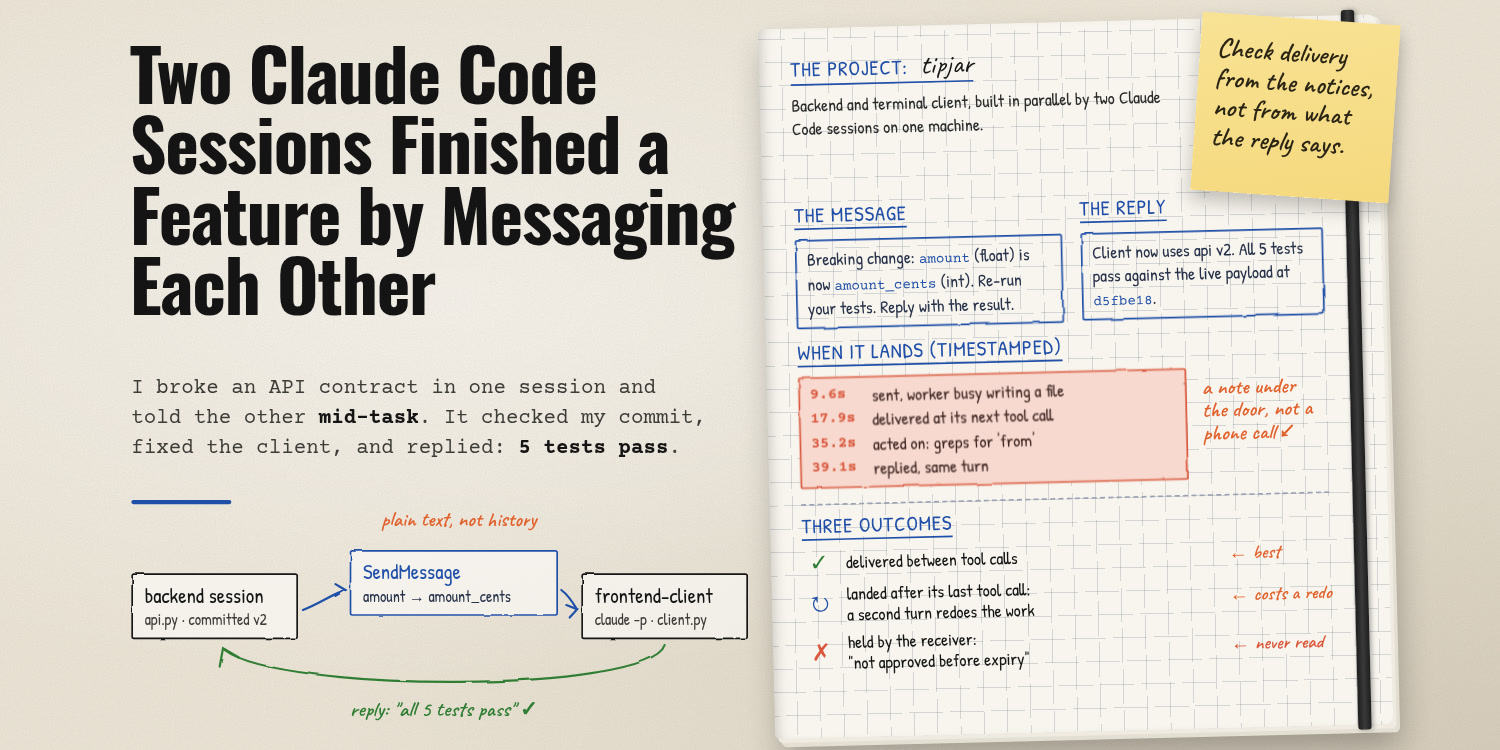
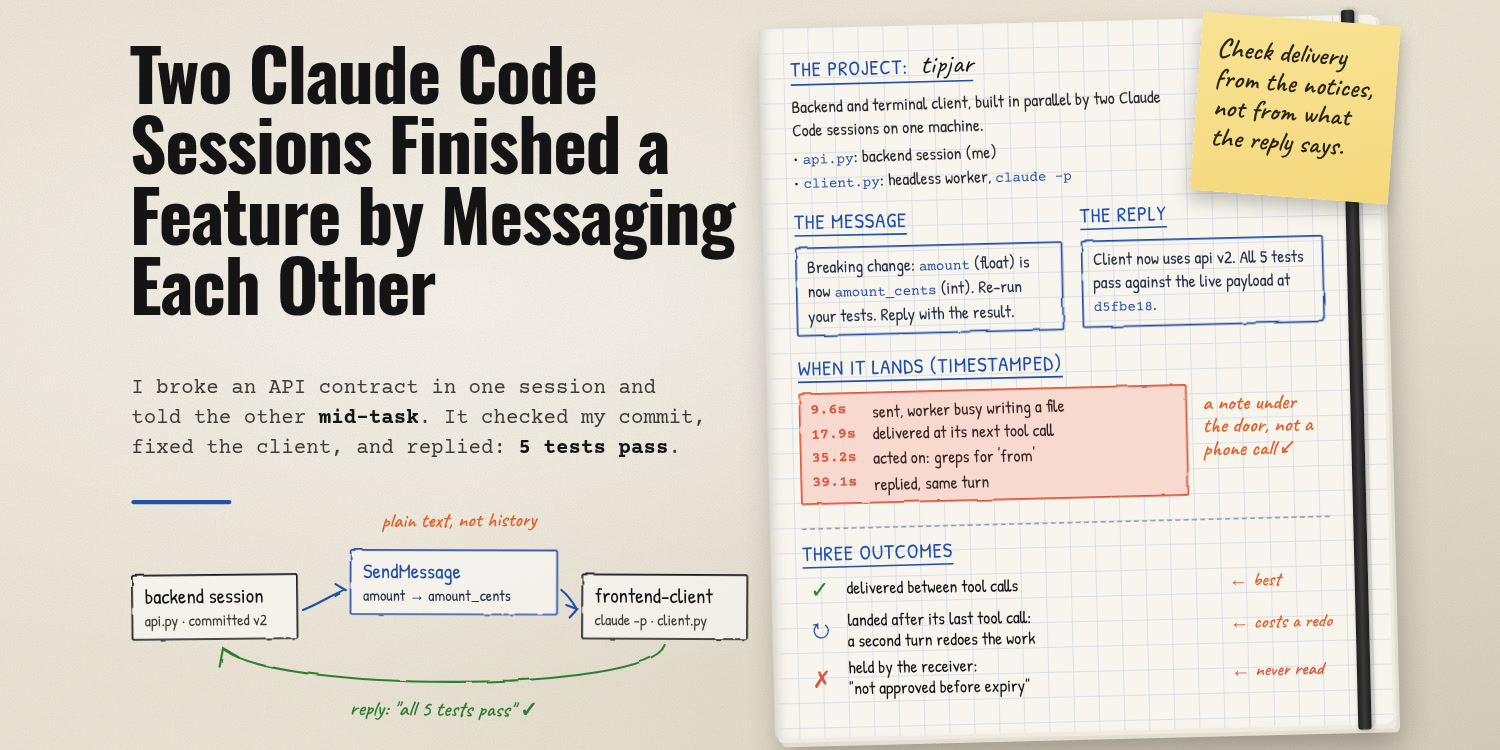
feat: claude-code cover v2 — SVG grid, filled project section, seeded hand jitter
Claude-Session: https://claude.ai/code/session_011vk3NQgjzhLnswYxwbd3wb

diff --git a/markdown/claude-code/assets/022/cover.html b/markdown/claude-code/assets/022/cover.html
@@ -1,5 +1,24 @@
 <!doctype html>
 <meta charset="utf-8">
+<!--
+  Cover template for the Claude Code series: a hand-drawn notebook page.
+  Rules: rules/claude-code/06-cover-contract.md
+
+  Copy to assets/NNN/cover.html (the font paths assume that depth), then edit the
+  four slots marked EDIT. The example content is article 022; replace all of it.
+  Everything outside the slots (paper, fonts, palette, notebook, sticky) is fixed.
+
+  Vocabulary inside the notebook:
+    .h               blue handwritten section heading (+ .mono for a name in Caveat)
+    .txt             body text in Patrick Hand
+    .box.sketch      blue wobbly box          .box.sketch.trap  red-tinted box (max one)
+    .code            inline monospace in blue
+    .tl              two-column timeline / table (bold mono left column)
+    .out             icon / text / orange tag rows (outcomes, verdicts)
+    .note            orange Caveat annotation, absolutely positioned
+  Also set the jitter seed at the bottom to the article number.
+  Render: ./render.sh cover NNN   (1500x750 JPEG), then read the image back.
+-->
 <style>
   @font-face { font-family: Oswald; src: url(../../fonts/Oswald.ttf); font-weight: 200 700; }
   @font-face { font-family: Caveat; src: url(../../fonts/Caveat.ttf); font-weight: 400 700; }
@@ -60,11 +79,7 @@
                   border-radius: 6px; }
   .book .page {
     position: absolute; inset: 0; border-radius: 6px 10px 10px 6px; overflow: hidden;
-    background:
-      repeating-linear-gradient(0deg, transparent 0 27px, var(--grid) 27px 28px),
-      repeating-linear-gradient(90deg, transparent 0 27px, var(--grid) 27px 28px),
-      var(--page);
-    background-blend-mode: multiply;
+    background: var(--page);
     box-shadow: inset 14px 0 18px -14px rgba(0,0,0,.25);
   }
   .book .band { position: absolute; right: 26px; top: -6px; bottom: -6px; width: 16px;
@@ -112,13 +127,13 @@
 <svg class="grain" width="1500" height="750"><rect width="100%" height="100%" filter="url(#paper)"/></svg>
 <div class="zoomer">
 
-<!-- ===== LEFT: title, subtitle ======================================== -->
+<!-- ===== EDIT 1: title (the article title, verbatim) and subtitle (2-3 lines, <b> on the key phrases) -->
 <div class="title">Two Claude Code Sessions Finished a Feature by Messaging Each Other</div>
 <div class="sub">I broke an API contract in one session and told the other <b>mid-task</b>.
   It checked my commit, fixed the client, and replied: <b>5 tests pass</b>.</div>
 <div class="rule"></div>
 
-<!-- ===== LEFT: flow sketch ============================================ -->
+<!-- ===== EDIT 2: bottom-left sketch: 2-3 cards, arrows, 1-2 orange or green notes -->
 <div class="flow">
   <div class="card sketch hand" style="left:0; top:48px; width:200px">backend session<small>api.py · committed v2</small></div>
   <div class="card sketch hand" style="left:262px; top:20px; width:250px; color:var(--blue)">SendMessage<small style="color:#26324a">amount → amount_cents</small></div>
@@ -136,15 +151,18 @@
   </svg>
 </div>
 
-<!-- ===== RIGHT: notebook ============================================== -->
+<!-- ===== EDIT 3: notebook, 3-4 sections; facts and numbers only from the article -->
 <div class="book">
   <div class="stack"></div><div class="stack2"></div>
   <div class="page">
+    <!-- grid as vector lines: CSS gradients turn into broken stair-steps under the tilt -->
+    <svg class="gridlines" width="742" height="852" style="position:absolute; inset:0"><g stroke="#d6dbe2" stroke-width="1"><line x1="30" y1="0" x2="30" y2="852"/><line x1="60" y1="0" x2="60" y2="852"/><line x1="90" y1="0" x2="90" y2="852"/><line x1="120" y1="0" x2="120" y2="852"/><line x1="150" y1="0" x2="150" y2="852"/><line x1="180" y1="0" x2="180" y2="852"/><line x1="210" y1="0" x2="210" y2="852"/><line x1="240" y1="0" x2="240" y2="852"/><line x1="270" y1="0" x2="270" y2="852"/><line x1="300" y1="0" x2="300" y2="852"/><line x1="330" y1="0" x2="330" y2="852"/><line x1="360" y1="0" x2="360" y2="852"/><line x1="390" y1="0" x2="390" y2="852"/><line x1="420" y1="0" x2="420" y2="852"/><line x1="450" y1="0" x2="450" y2="852"/><line x1="480" y1="0" x2="480" y2="852"/><line x1="510" y1="0" x2="510" y2="852"/><line x1="540" y1="0" x2="540" y2="852"/><line x1="570" y1="0" x2="570" y2="852"/><line x1="600" y1="0" x2="600" y2="852"/><line x1="630" y1="0" x2="630" y2="852"/><line x1="660" y1="0" x2="660" y2="852"/><line x1="690" y1="0" x2="690" y2="852"/><line x1="720" y1="0" x2="720" y2="852"/><line x1="0" y1="30" x2="742" y2="30"/><line x1="0" y1="60" x2="742" y2="60"/><line x1="0" y1="90" x2="742" y2="90"/><line x1="0" y1="120" x2="742" y2="120"/><line x1="0" y1="150" x2="742" y2="150"/><line x1="0" y1="180" x2="742" y2="180"/><line x1="0" y1="210" x2="742" y2="210"/><line x1="0" y1="240" x2="742" y2="240"/><line x1="0" y1="270" x2="742" y2="270"/><line x1="0" y1="300" x2="742" y2="300"/><line x1="0" y1="330" x2="742" y2="330"/><line x1="0" y1="360" x2="742" y2="360"/><line x1="0" y1="390" x2="742" y2="390"/><line x1="0" y1="420" x2="742" y2="420"/><line x1="0" y1="450" x2="742" y2="450"/><line x1="0" y1="480" x2="742" y2="480"/><line x1="0" y1="510" x2="742" y2="510"/><line x1="0" y1="540" x2="742" y2="540"/><line x1="0" y1="570" x2="742" y2="570"/><line x1="0" y1="600" x2="742" y2="600"/><line x1="0" y1="630" x2="742" y2="630"/><line x1="0" y1="660" x2="742" y2="660"/><line x1="0" y1="690" x2="742" y2="690"/><line x1="0" y1="720" x2="742" y2="720"/><line x1="0" y1="750" x2="742" y2="750"/><line x1="0" y1="780" x2="742" y2="780"/><line x1="0" y1="810" x2="742" y2="810"/><line x1="0" y1="840" x2="742" y2="840"/></g></svg>
     <div class="content">
       <div class="h">The project: <span class="mono">tipjar</span></div>
       <div class="txt" style="width:470px">Backend and terminal client, built in parallel by two Claude Code sessions on one machine.</div>
+      <div class="txt" style="width:470px; margin-top:6px">• <span class="code">api.py</span>: backend session (me)<br>• <span class="code">client.py</span>: headless worker, <span class="code">claude -p</span></div>
 
-      <div class="row" style="margin-top:78px">
+      <div class="row" style="margin-top:22px">
         <div style="flex:1.1">
           <div class="h">The message</div>
           <div class="box sketch"><div class="txt">Breaking change: <span class="code">amount</span> (float)
@@ -156,7 +174,7 @@
         </div>
       </div>
 
-      <div style="margin-top:16px; display:flex; gap:18px; align-items:flex-start">
+      <div style="margin-top:26px; display:flex; gap:18px; align-items:flex-start">
         <div style="flex:1">
           <div class="h">When it lands (timestamped)</div>
           <div class="box sketch trap"><div class="tl">
@@ -169,7 +187,7 @@
         <div class="note" style="width:150px; font-size:26px; line-height:1.05; margin-top:52px">a note under<br>the door, not a<br>phone call ↙</div>
       </div>
 
-      <div style="border-top: 2px dashed #9aa3b5; margin: 18px 0 12px"></div>
+      <div style="border-top: 2px dashed #9aa3b5; margin: 28px 0 16px"></div>
       <div class="h">Three outcomes</div>
       <div class="out">
         <span class="ico" style="color:var(--green)">✓</span><span>delivered between tool calls</span><span class="tag">← best</span>
@@ -181,5 +199,20 @@
   <div class="band"></div>
 </div>
 
+<!-- ===== EDIT 4: sticky note, the one-line lesson, about 12 words ===== -->
 <div class="sticky">Check delivery from the notices, not from what the reply says.</div>
 </div>
+<script>
+  (function () {
+    let seed = 22;   // EDIT: the article number, so each cover's jitter is stable
+    const rand = () => (seed = (seed * 16807) % 2147483647) / 2147483647;
+    const targets = '.content .h, .content .txt, .tl > span, .tl > b, .out > span, .note, .card, .sticky';
+    document.querySelectorAll(targets).forEach(el => {
+      const deg = (rand() - 0.5) * 1.2;              // within +/-0.6 degrees
+      const dy = (rand() - 0.5) * 2;                 // within +/-1 px
+      const base = getComputedStyle(el).transform;
+      const keep = base && base !== 'none' ? base + ' ' : '';
+      el.style.transform = keep + `translateY(${dy.toFixed(2)}px) rotate(${deg.toFixed(2)}deg)`;
+    });
+  })();
+</script>

diff --git a/markdown/claude-code/cover-template.html b/markdown/claude-code/cover-template.html
@@ -16,6 +16,7 @@
     .tl              two-column timeline / table (bold mono left column)
     .out             icon / text / orange tag rows (outcomes, verdicts)
     .note            orange Caveat annotation, absolutely positioned
+  Also set the jitter seed at the bottom to the article number.
   Render: ./render.sh cover NNN   (1500x750 JPEG), then read the image back.
 -->
 <style>
@@ -78,11 +79,7 @@
                   border-radius: 6px; }
   .book .page {
     position: absolute; inset: 0; border-radius: 6px 10px 10px 6px; overflow: hidden;
-    background:
-      repeating-linear-gradient(0deg, transparent 0 27px, var(--grid) 27px 28px),
-      repeating-linear-gradient(90deg, transparent 0 27px, var(--grid) 27px 28px),
-      var(--page);
-    background-blend-mode: multiply;
+    background: var(--page);
     box-shadow: inset 14px 0 18px -14px rgba(0,0,0,.25);
   }
   .book .band { position: absolute; right: 26px; top: -6px; bottom: -6px; width: 16px;
@@ -158,11 +155,14 @@
 <div class="book">
   <div class="stack"></div><div class="stack2"></div>
   <div class="page">
+    <!-- grid as vector lines: CSS gradients turn into broken stair-steps under the tilt -->
+    <svg class="gridlines" width="742" height="852" style="position:absolute; inset:0"><g stroke="#d6dbe2" stroke-width="1"><line x1="30" y1="0" x2="30" y2="852"/><line x1="60" y1="0" x2="60" y2="852"/><line x1="90" y1="0" x2="90" y2="852"/><line x1="120" y1="0" x2="120" y2="852"/><line x1="150" y1="0" x2="150" y2="852"/><line x1="180" y1="0" x2="180" y2="852"/><line x1="210" y1="0" x2="210" y2="852"/><line x1="240" y1="0" x2="240" y2="852"/><line x1="270" y1="0" x2="270" y2="852"/><line x1="300" y1="0" x2="300" y2="852"/><line x1="330" y1="0" x2="330" y2="852"/><line x1="360" y1="0" x2="360" y2="852"/><line x1="390" y1="0" x2="390" y2="852"/><line x1="420" y1="0" x2="420" y2="852"/><line x1="450" y1="0" x2="450" y2="852"/><line x1="480" y1="0" x2="480" y2="852"/><line x1="510" y1="0" x2="510" y2="852"/><line x1="540" y1="0" x2="540" y2="852"/><line x1="570" y1="0" x2="570" y2="852"/><line x1="600" y1="0" x2="600" y2="852"/><line x1="630" y1="0" x2="630" y2="852"/><line x1="660" y1="0" x2="660" y2="852"/><line x1="690" y1="0" x2="690" y2="852"/><line x1="720" y1="0" x2="720" y2="852"/><line x1="0" y1="30" x2="742" y2="30"/><line x1="0" y1="60" x2="742" y2="60"/><line x1="0" y1="90" x2="742" y2="90"/><line x1="0" y1="120" x2="742" y2="120"/><line x1="0" y1="150" x2="742" y2="150"/><line x1="0" y1="180" x2="742" y2="180"/><line x1="0" y1="210" x2="742" y2="210"/><line x1="0" y1="240" x2="742" y2="240"/><line x1="0" y1="270" x2="742" y2="270"/><line x1="0" y1="300" x2="742" y2="300"/><line x1="0" y1="330" x2="742" y2="330"/><line x1="0" y1="360" x2="742" y2="360"/><line x1="0" y1="390" x2="742" y2="390"/><line x1="0" y1="420" x2="742" y2="420"/><line x1="0" y1="450" x2="742" y2="450"/><line x1="0" y1="480" x2="742" y2="480"/><line x1="0" y1="510" x2="742" y2="510"/><line x1="0" y1="540" x2="742" y2="540"/><line x1="0" y1="570" x2="742" y2="570"/><line x1="0" y1="600" x2="742" y2="600"/><line x1="0" y1="630" x2="742" y2="630"/><line x1="0" y1="660" x2="742" y2="660"/><line x1="0" y1="690" x2="742" y2="690"/><line x1="0" y1="720" x2="742" y2="720"/><line x1="0" y1="750" x2="742" y2="750"/><line x1="0" y1="780" x2="742" y2="780"/><line x1="0" y1="810" x2="742" y2="810"/><line x1="0" y1="840" x2="742" y2="840"/></g></svg>
     <div class="content">
       <div class="h">The project: <span class="mono">tipjar</span></div>
       <div class="txt" style="width:470px">Backend and terminal client, built in parallel by two Claude Code sessions on one machine.</div>
+      <div class="txt" style="width:470px; margin-top:6px">• <span class="code">api.py</span>: backend session (me)<br>• <span class="code">client.py</span>: headless worker, <span class="code">claude -p</span></div>
 
-      <div class="row" style="margin-top:78px">
+      <div class="row" style="margin-top:22px">
         <div style="flex:1.1">
           <div class="h">The message</div>
           <div class="box sketch"><div class="txt">Breaking change: <span class="code">amount</span> (float)
@@ -174,7 +174,7 @@
         </div>
       </div>
 
-      <div style="margin-top:16px; display:flex; gap:18px; align-items:flex-start">
+      <div style="margin-top:26px; display:flex; gap:18px; align-items:flex-start">
         <div style="flex:1">
           <div class="h">When it lands (timestamped)</div>
           <div class="box sketch trap"><div class="tl">
@@ -187,7 +187,7 @@
         <div class="note" style="width:150px; font-size:26px; line-height:1.05; margin-top:52px">a note under<br>the door, not a<br>phone call ↙</div>
       </div>
 
-      <div style="border-top: 2px dashed #9aa3b5; margin: 18px 0 12px"></div>
+      <div style="border-top: 2px dashed #9aa3b5; margin: 28px 0 16px"></div>
       <div class="h">Three outcomes</div>
       <div class="out">
         <span class="ico" style="color:var(--green)">✓</span><span>delivered between tool calls</span><span class="tag">← best</span>
@@ -202,3 +202,17 @@
 <!-- ===== EDIT 4: sticky note, the one-line lesson, about 12 words ===== -->
 <div class="sticky">Check delivery from the notices, not from what the reply says.</div>
 </div>
+<script>
+  (function () {
+    let seed = 22;   // EDIT: the article number, so each cover's jitter is stable
+    const rand = () => (seed = (seed * 16807) % 2147483647) / 2147483647;
+    const targets = '.content .h, .content .txt, .tl > span, .tl > b, .out > span, .note, .card, .sticky';
+    document.querySelectorAll(targets).forEach(el => {
+      const deg = (rand() - 0.5) * 1.2;              // within +/-0.6 degrees
+      const dy = (rand() - 0.5) * 2;                 // within +/-1 px
+      const base = getComputedStyle(el).transform;
+      const keep = base && base !== 'none' ? base + ' ' : '';
+      el.style.transform = keep + `translateY(${dy.toFixed(2)}px) rotate(${deg.toFixed(2)}deg)`;
+    });
+  })();
+</script>
